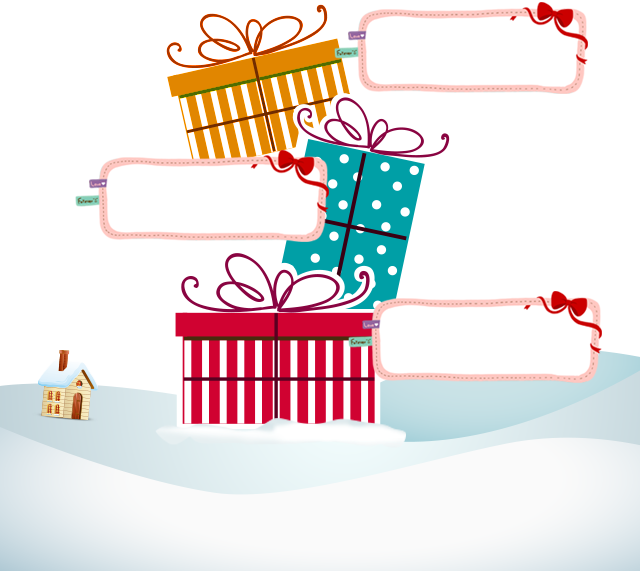
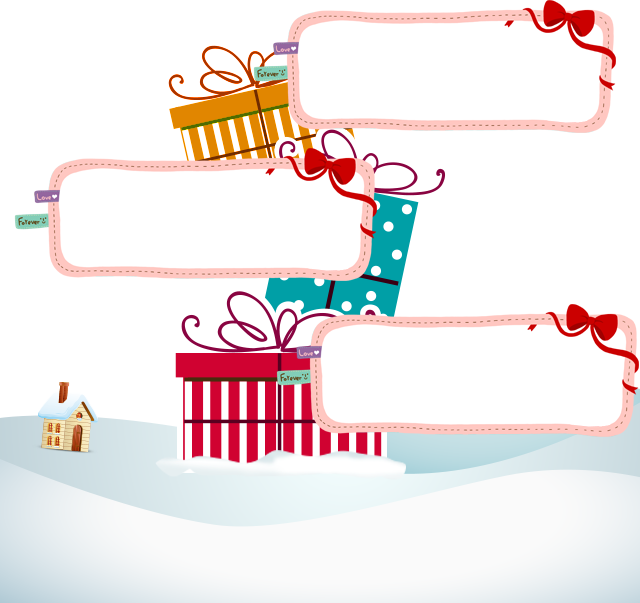
更新内容

Changed region(s): [[0.0, 0.0, 1.0, 0.8039], [0.125, 0.8039, 0.3125, 0.8634], [0.3125, 0.8634, 0.375, 0.8932]]

diff --git a/Public/index/css/common.css b/Public/index/css/common.css
@@ -88,25 +88,26 @@ label.disabled{}
 a.icon_close{ float:right; padding:15px 15px 0 0; width:15px; height:16px; background:url(../images/icon_close.png) no-repeat;background-size:15px 16px;-moz-background-size:15px 16px;}
 
 /*圣诞卡*/
-#cardbox{position:fixed;bottom:0px; height:286px; width:320px; margin:0 auto; background:url(../images/card.png) bottom no-repeat;background-size:320px 286px;
--moz-background-size:320px 286px;}
+#cardbox{position:fixed;bottom:0px; height:302px; width:320px; margin:0 auto; background:url(../images/card.png) bottom no-repeat;background-size:320px 302px;
+-moz-background-size:320px 302px;}
 .card{ width:320px; height:200px; margin:0 auto; position:relative;}
-.card li{ position:absolute; width:150px; height:50px;}
-.card li.c1{left:160px; top:0;}
-.card li.c2{left:30px; top:75px;}
-.card li.c3{left:165px; top:145px;}
-.card li img{ float:left; width:32px; height:32px; border:0; margin:10px 0 0 0;}
-.card li div{ float:left; width:85px; margin:10px 0 0 0; line-height:10px; font-size:8px; color:#414141; text-align:center;}
-.card li div h2{ font-size:10px; color:#414141; font-weight:normal;}
+.card li{ position:absolute; width:200px; height:50px;}
+.card li.c1{left:120px; top:0;}
+.card li.c2{left:0px; top:75px;}
+.card li.c3{left:130px; top:155px;}
+.card li img{ float:left; width:45px; height:45px; border:0; margin:10px 0 0 0;}
+.card li div{ float:left; width:125px; margin:15px 0 0 0; line-height:12px; font-size:12px; color:#414141; text-align:center;}
+.card li div h2{ font-size:14px; color:#c80000; font-weight:normal; margin-top:3px;}
 
 
 .btn_snow{ width:300px; margin:0 auto;}
-.btn_snow a{ display:inline-block;}
-a.btn1{ width:84px; height:45px; background:url(../images/btn1.png) no-repeat; margin:15px 5px 10px 5px;background-size:84px 45px;-moz-background-size:84px 45px;}
-a.btn2{ width:91px; height:45px; background:url(../images/btn2.png) no-repeat; margin:15px 5px 10px 5px;background-size:91px 45px;-moz-background-size:91px 45px;}
-a.btn3{ width:98px; height:45px; background:url(../images/btn3.png) no-repeat; margin:15px 0 10px 5px;background-size:98px 45px;-moz-background-size:98px 45px;}
-a.btn4{ width:187px; height:45px; background:url(../images/btn4.png) no-repeat; margin:15px 5px 10px 5px;background-size:187px 45px;-moz-background-size:187px 45px;}
-a.btn5{ width:101px; height:45px; background:url(../images/btn5.png) no-repeat; margin:15px 0 10px 0;background-size:101px 45px;-moz-background-size:101px 45px;}
+.btn_snow a{ display:inline-block; margin-top:25px;}
+a.btn1{ width:85px; height:54px;background:url(../images/btn_share1.png) no-repeat; background-size:300px 54px;-moz-background-size:300px 54px; background-position:0 0; margin-right:5px;}
+a.btn2{ width:95px; height:54px;background:url(../images/btn_share1.png) no-repeat; background-size:300px 54px;-moz-background-size:300px 54px; background-position:-95px 0 ; margin-right:5px;}
+a.btn3{ width:109px; height:54px;background:url(../images/btn_share1.png) no-repeat; background-size:300px 54px;-moz-background-size:300px 54px; background-position:-190px 0 ;}
+a.btn4{ width:188px; height:51px;background:url(../images/btn_share2.png) no-repeat; background-size:300px 51px;-moz-background-size:300px 51px; background-position:0 0; margin-right:2px;}
+a.btn5{ width:108px; height:51px;background:url(../images/btn_share2.png) no-repeat; background-size:300px 51px;-moz-background-size:300px 51px; background-position:-190px 0;}
 
-a.btn_del{ width:300px; height:40px; line-height:40px; text-align:center; font-size:16px; color:#fff; text-decoration:none; background:#7b7538; display:inline-block; margin-top:20px;}
-a:hover.btn_del{ background:#999350;}
+a.btn_del{ width:309px; height:45px;  background:url(../images/btn_cancel.jpg) no-repeat; display:block; margin-top:20px; text-indent:-9999em;}
+
+.hide{display:none;}

diff --git a/index/Tpl/Index/result.html b/index/Tpl/Index/result.html
@@ -150,7 +150,7 @@ function closeBg() {
 <body>
 <!--遮罩层  start-->
 <div id="popDiv" class="mydiv" style="display:none;"> 	
-    <img src="__PUBLIC__/index/images/row.png" width="306" height="179" border="0"/>
+    <img src="__PUBLIC__/index/images/row.png" border="0"/>
     <div>  
     <a href="javascript:closeBg()" class="btn_del">  
        取消
